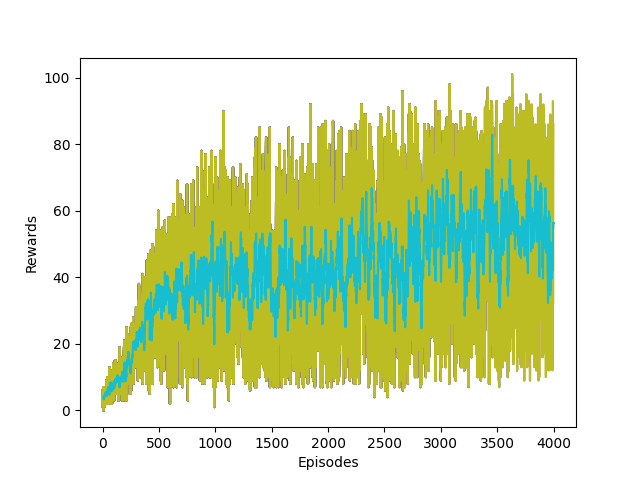
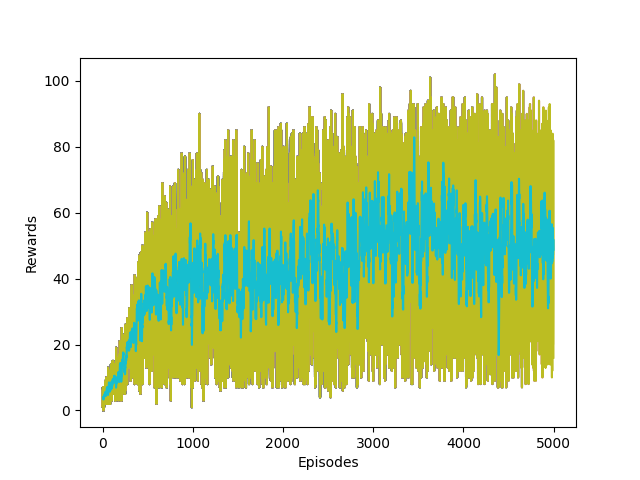
update

diff --git a/src/RL/agents.py b/src/RL/agents.py
@@ -74,7 +74,7 @@ class PolicyAttenNetwork(nn.Module):
         self.WQ = nn.Linear(num_inputs,hidden_size)
         self.WK = nn.Linear(num_inputs,hidden_size)
         self.WV = nn.Linear(num_inputs,hidden_size)
-        self.cache_size = 10 
+        self.cache_size = 1000 
         self.kmem = None 
         self.vmem = None 
         self.linear1 = nn.Linear(hidden_size,hidden_size//2)
@@ -112,13 +112,60 @@ class PolicyAttenNetwork(nn.Module):
         log_prob = torch.log(probs.squeeze(0)[highest_prob_action])
         return highest_prob_action, log_prob
 
-class PolicyGRUNetwork(nn.Module):
+class PolicyAttenNetworkv1(nn.Module):   
     def __init__(self, num_inputs, num_actions, hidden_size, learning_rate=3e-4):
+        super(PolicyAttenNetwork, self).__init__()
+        self.hidden_size = hidden_size 
+        self.num_actions = num_actions
+        self.WQ = nn.Linear(num_inputs,hidden_size)
+        self.WK = nn.Linear(num_inputs,hidden_size)
+        self.WV = nn.Linear(num_inputs,hidden_size)
+        self.cache_size = 1000 
+        self.kmem = None 
+        self.vmem = None 
+        self.linear1 = nn.Linear(hidden_size,hidden_size//2)
+        self.linear2 = nn.Linear(hidden_size//2,num_actions)
+        self.optimizer = optim.Adam(self.parameters(), lr=learning_rate)
+    
+    def reset(self):
+        self.kmem = None 
+        self.vmem = None 
+ 
+    
+    def forward(self,state):
+        q = self.WQ(state)
+        k = self.WK(state)
+        v = self.WV(state)
+        if self.kmem is None:
+            self.kmem = k
+            self.vmem = v
+        if len(self.kmem) == self.cache_size:
+            self.kmem = self.kmem[:-1,:]
+            self.vmem = self.vmem[:-1,:]
+        dk = k.detach().clone()
+        dv = v.detach().clone()
+        self.kmem = torch.cat([dk,self.kmem],dim=-2)
+        self.vmem = torch.cat([dv,self.vmem],dim=-2)
+        out,attn = attention(q,self.kmem,self.vmem)
+        out = nn.functional.relu(self.linear1(out))
+        out = nn.functional.softmax(self.linear2(out),dim=-1)
+        return out
+
+    def get_action(self, state):
+        state = torch.from_numpy(state).float().unsqueeze(0)
+        probs = self.forward(Variable(state))
+        highest_prob_action = np.random.choice(self.num_actions, p=np.squeeze(probs.detach().numpy()))
+        log_prob = torch.log(probs.squeeze(0)[highest_prob_action])
+        return highest_prob_action, log_prob
+
+
+class PolicyGRUNetwork(nn.Module):
+    def __init__(self, num_inputs, num_actions, hidden_size, learning_rate=3e-4,nlayers=2):
         super(PolicyGRUNetwork,self).__init__()
         self.hidden_size = hidden_size
         input_size = num_inputs
         self.num_actions = num_actions
-        self.layers = 2
+        self.layers = nlayers 
         self.hidden = torch.zeros(self.layers,1,self.hidden_size)
         self.gru = nn.GRU(input_size,self.hidden_size,self.layers)
         self.h0 = torch.randn(self.layers,1,self.hidden_size)
@@ -169,6 +216,57 @@ class PolicyMemoryNetwork(nn.Module):
 
         return x 
     
+    def get_action(self, state):
+        state = torch.from_numpy(state).float().unsqueeze(0)
+        probs = self.forward(Variable(state))
+        highest_prob_action = np.random.choice(self.num_actions, p=np.squeeze(probs.detach().numpy()))
+        log_prob = torch.log(probs.squeeze(0)[highest_prob_action])
+        return highest_prob_action, log_prob
+
+
+class PolicyGRUTAgent:
+
+    def __init__(self, num_inputs, num_actions, hidden_size, learning_rate=3e-4):
+        super(PolicyGRUTAgent, self).__init__()
+        self.hidden_size = hidden_size 
+        self.num_actions = num_actions
+        self.input_size = num_inputs
+        self.gruQ = nn.GRU(num_inputs,hidden_size,1)
+        self.gruW = nn.GRU(num_inputs,hidden_size,1)
+        self.gruK = nn.GRU(num_inputs,hidden_size,1) 
+
+        
+        self.cache_size = 1000 
+        self.kmem = None 
+        self.vmem = None 
+        self.linear1 = nn.Linear(hidden_size,hidden_size//2)
+        self.linear2 = nn.Linear(hidden_size//2,num_actions)
+        self.optimizer = optim.Adam(self.parameters(), lr=learning_rate)
+    
+    def reset(self):
+        self.kmem = None 
+        self.vmem = None 
+ 
+    
+    def forward(self,state):
+        q = self.WQ(state)
+        k = self.WK(state)
+        v = self.WV(state)
+        if self.kmem is None:
+            self.kmem = k
+            self.vmem = v
+        if len(self.kmem) == self.cache_size:
+            self.kmem = self.kmem[:-1,:]
+            self.vmem = self.vmem[:-1,:]
+        dk = k.detach().clone()
+        dv = v.detach().clone()
+        self.kmem = torch.cat([dk,self.kmem],dim=-2)
+        self.vmem = torch.cat([dv,self.vmem],dim=-2)
+        out,attn = attention(q,self.kmem,self.vmem)
+        out = nn.functional.relu(self.linear1(out))
+        out = nn.functional.softmax(self.linear2(out),dim=-1)
+        return out
+
     def get_action(self, state):
         state = torch.from_numpy(state).float().unsqueeze(0)
         probs = self.forward(Variable(state))

diff --git a/src/RL/run.py b/src/RL/run.py
@@ -30,7 +30,7 @@ def update_policy(policy_network, rewards, log_probs):
 
 
 
-def train(gsize: int,vsize: int,nactions: int,model_name: str,type="Default",load_model=None):
+def train(gsize: int,vsize: int,nactions: int,model_name: str,type="Default",load_model=None,nlayers = 2):
     """
         Train()
         Use to train the network
@@ -48,7 +48,7 @@ def train(gsize: int,vsize: int,nactions: int,model_name: str,type="Default",loa
     elif type == "Atten":
         net = PolicyAttenNetwork(num_inputs=vsize*vsize,num_actions=nactions,hidden_size=HIDDEN_SIZE)
     elif type == "Memory":
-        net = PolicyGRUNetwork(num_inputs=vsize*vsize,num_actions=nactions,hidden_size=HIDDEN_SIZE)
+        net = PolicyGRUNetwork(num_inputs=vsize*vsize,num_actions=nactions,hidden_size=HIDDEN_SIZE,nlayers=nlayers)
 
     if load_model is not None:
         net.load_state_dict(torch.load("../../models/"+load_model))
@@ -82,7 +82,7 @@ def train(gsize: int,vsize: int,nactions: int,model_name: str,type="Default",loa
         torch.save(net.state_dict(),"../../models/" + model_name) 
     recorder.save(HIST_FILENAME)
 
-def test(gsize: int,vsize: int,nactions: int,model_name: str,type: str):
+def test(gsize: int,vsize: int,nactions: int,model_name: str,type: str,nlayers=2):
     print(int(time.time())) 
     np.random.seed(int(time.time()))
     kr,kc = gsize
@@ -94,7 +94,7 @@ def test(gsize: int,vsize: int,nactions: int,model_name: str,type: str):
     elif type == "Atten":
         net = PolicyAttenNetwork(num_inputs=vsize*vsize,num_actions=nactions,hidden_size=HIDDEN_SIZE)
     elif type == "Memory":
-        net = PolicyGRUNetwork(num_inputs=vsize*vsize,num_actions=nactions,hidden_size=HIDDEN_SIZE)
+        net = PolicyGRUNetwork(num_inputs=vsize*vsize,num_actions=nactions,hidden_size=HIDDEN_SIZE,nlayers= nlayers)
 
     net.load_state_dict(torch.load("../../models/"+ model_name))
     # state = torch.tensor(game.get_state(),dtype=torch.float).reshape(1,-1)
@@ -120,24 +120,23 @@ def test(gsize: int,vsize: int,nactions: int,model_name: str,type: str):
 
 if __name__ == '__main__':
     EPISODES = 5000
-    STEPS = 10000
+    STEPS = 2000
     HIDDEN_SIZE =  64 
     MODEL_NAME = "PowerMAgentv2-S7"
-    
+    TYPE = "Memory" 
+    VSIZE = 5
+    NACTIONS = 6
     PLOT_FILENAME = MODEL_NAME + ".png" 
     HIST_FILENAME = MODEL_NAME + ".pkl" 
-
+    NLAYERS = 2
+    
     # train(  gsize=(14,14),
-    #         vsize=7,
-    #         nactions=6,
+    #         vsize=VSIZE,
+    #         nactions= NACTIONS,
     #         model_name = MODEL_NAME + ".pth", 
-    #         type="Memory",
-    #         load_model = None)
+    #         type= TYPE,
+    #         load_model = None,
+    #         nlayers=4)
+            
 
-
-    # train((14,14),7,6,"PowerAgentv2-S7.pth")
-    # input()
-    # train((10,10),5,"PAAgent-S5.pth",mem=True,load_model="PAAgent-S5.pth")
-    # train((20,30),5,"PowerAgent-S5.pth")
-    # test((30,30),5,"PowerAgent-S5.pth",)
-    test((14,14),7,6, MODEL_NAME + ".pth",type="Memory")
+    test((14,14),VSIZE, NACTIONS, MODEL_NAME + ".pth",type=TYPE,nlayers=NLAYERS)

diff --git a/src/RL/a2c.py b/src/RL/a2c.py
@@ -22,7 +22,6 @@ max_episodes = 3000
 class ActorCritic(nn.Module):
     def __init__(self, num_inputs, num_actions, hidden_size, learning_rate=3e-4):
         super(ActorCritic, self).__init__()
-
         self.num_actions = num_actions
         self.critic_linear1 = nn.Linear(num_inputs, hidden_size)
         self.critic_linear2 = nn.Linear(hidden_size, 1)
@@ -34,10 +33,8 @@ class ActorCritic(nn.Module):
         state = Variable(torch.from_numpy(state).float().unsqueeze(0))
         value = F.relu(self.critic_linear1(state))
         value = self.critic_linear2(value)
-        
         policy_dist = F.relu(self.actor_linear1(state))
         policy_dist = F.softmax(self.actor_linear2(policy_dist), dim=1)
-
         return value, policy_dist
 
 
@@ -101,13 +98,14 @@ def a2c(env):
         advantage = Qvals - values
         actor_loss = (-log_probs * advantage).mean()
         critic_loss = 0.5 * advantage.pow(2).mean()
+        print(type(actor_loss),type(critic_loss),type(entropy_term))
+        print(actor_loss.requires_grad,(critic_loss.requires_grad))
         ac_loss = actor_loss + critic_loss + 0.001 * entropy_term
 
         ac_optimizer.zero_grad()
         ac_loss.backward()
         ac_optimizer.step()
 
-        
     
     # Plot results
     smoothed_rewards = pd.Series.rolling(pd.Series(all_rewards), 10).mean()
@@ -127,5 +125,5 @@ def a2c(env):
 
 
 if __name__ == '__main__':
-    env = gym.make("CarRacing-v0")
+    env = gym.make("CartPole-v0")
     a2c(env)

diff --git a/src/RL/Env.py b/src/RL/Env.py
@@ -155,7 +155,7 @@ class PowerGame:
         self.draw_grid()
         self.draw_items()
         self.render_text(f"Collected :{self.collected:3}",(0,0))
-        self.render_text(f"Items     :{self.items:3}",(0,10))
+        self.render_text(f"Items     :{self.items:3}",(0,20))
         # self.agent_pos[1] = ((self.agent_pos[1]+1)%30)
         # if self.agent_pos[1] == 0:
         #     self.agent_pos[0] = ((self.agent_pos[0]+1)%20)
